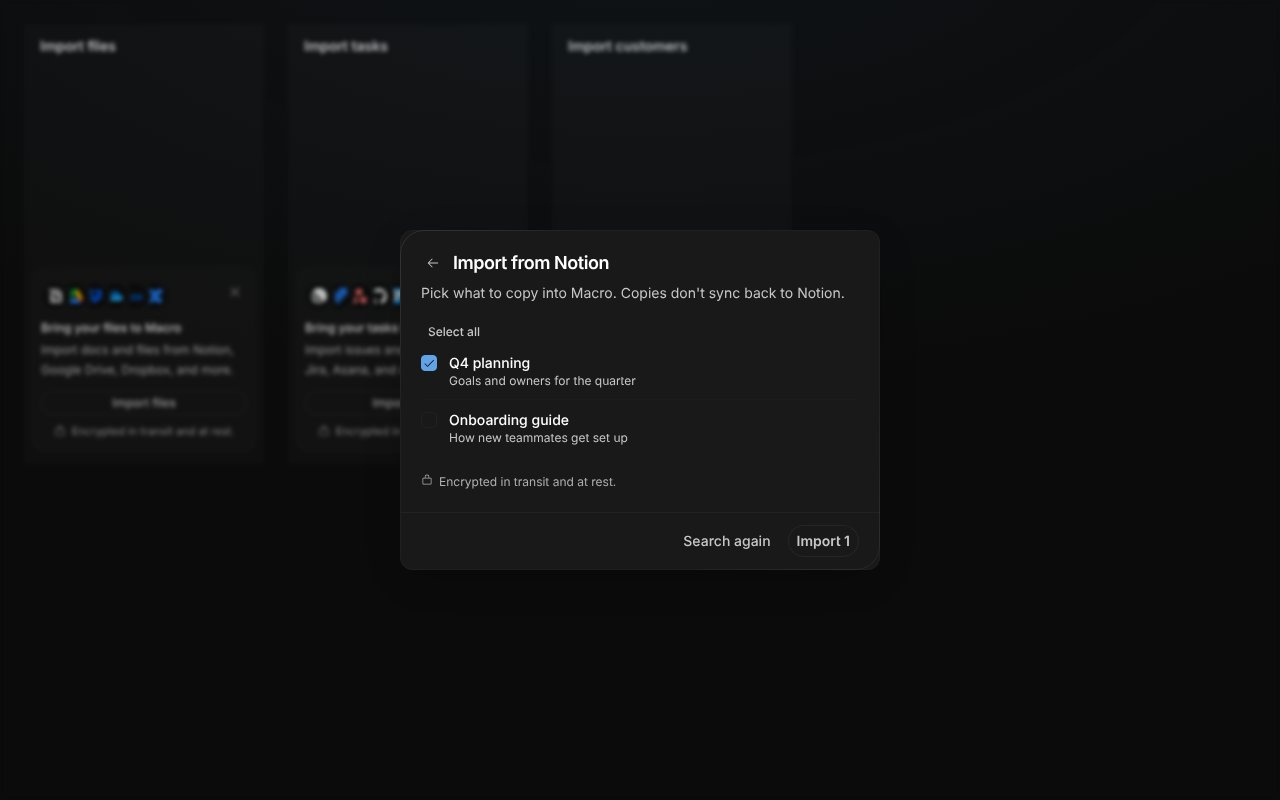
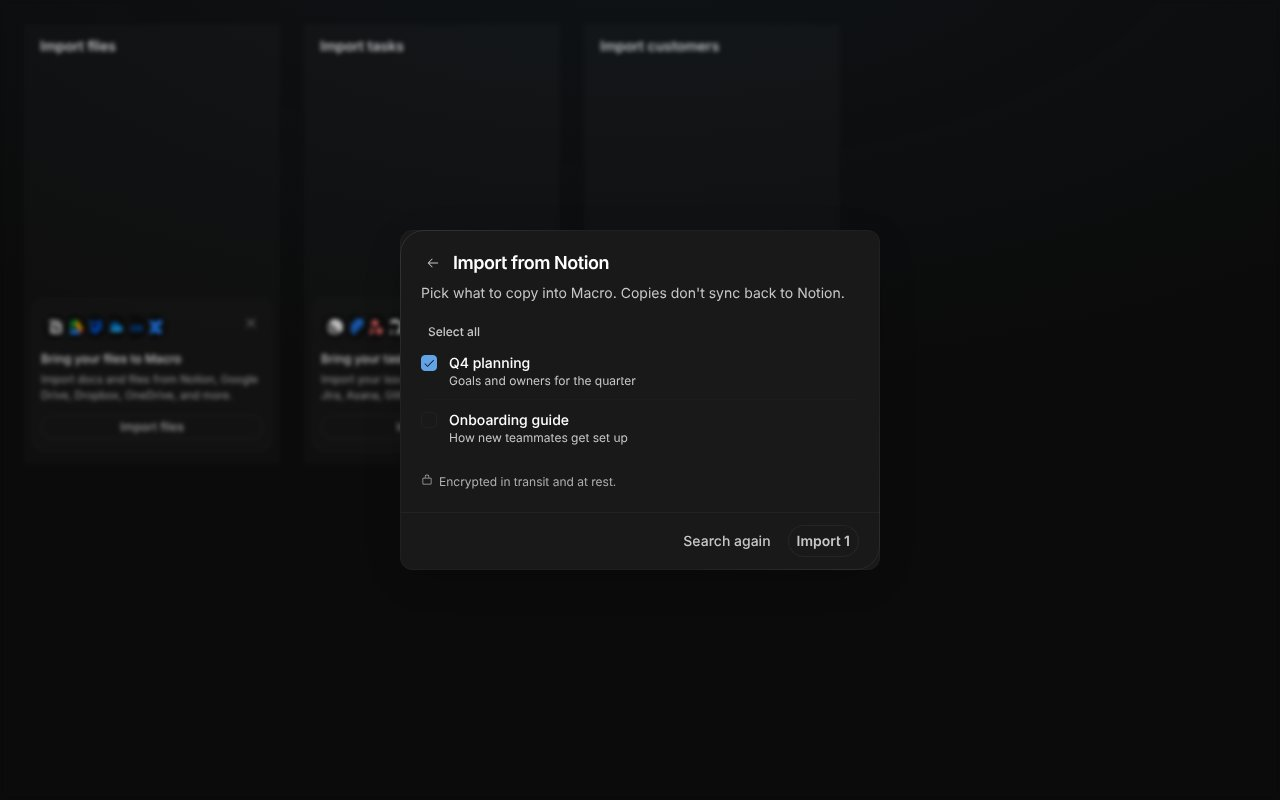
fix(import): drop card security note and tighten pitch copy
Smaller pitch text, with copy that fills one line and most of a second at the default sidebar width.

diff --git a/apps/web/src/features/connector-import/core/catalog.ts b/apps/web/src/features/connector-import/core/catalog.ts
@@ -22,12 +22,13 @@ import type {
 
 // Order is promotion order: the sidebar card shows these left to right and
 // its copy names the first few. Natively imported sources lead.
+// Each pitch fills one line and most of a second at the default sidebar width.
 export const IMPORT_CATEGORIES: Record<ImportCategory, ImportCategoryConfig> = {
   files: {
     category: 'files',
     headline: 'Bring your files to Macro',
     pitch:
-      'Import docs and files from Notion, Google Drive, Dropbox, and more.',
+      'Import docs and files from Notion, Google Drive, Dropbox, OneDrive, and more.',
     action: 'Import files',
     dialogDescription:
       'Connect an app, then pick what to bring into your Drive.',
@@ -76,7 +77,8 @@ export const IMPORT_CATEGORIES: Record<ImportCategory, ImportCategoryConfig> = {
   tasks: {
     category: 'tasks',
     headline: 'Bring your tasks to Macro',
-    pitch: 'Import issues and tasks from Linear, Jira, Asana, and more.',
+    pitch:
+      'Import your issues and tasks from Linear, Jira, Asana, GitHub, Trello, and more.',
     action: 'Import tasks',
     dialogDescription: 'Connect an app, then pick which tasks to bring over.',
     items: 'issues and tasks',
@@ -124,7 +126,8 @@ export const IMPORT_CATEGORIES: Record<ImportCategory, ImportCategoryConfig> = {
   crm: {
     category: 'crm',
     headline: 'Bring your customers to Macro',
-    pitch: 'Import companies and contacts from HubSpot, Salesforce, and more.',
+    pitch:
+      'Import your companies and contacts from HubSpot, Salesforce, Close, and more.',
     action: 'Import customers',
     dialogDescription:
       'Connect an app, then bring its companies and contacts into your CRM.',

diff --git a/apps/web/src/features/connector-import/components/import-promo-card.tsx b/apps/web/src/features/connector-import/components/import-promo-card.tsx
@@ -2,7 +2,6 @@ import XIcon from '@phosphor/x.svg';
 import { Button } from '@ui';
 import type { ImportCategoryConfig } from '../core/providers';
 import { ProviderStack } from './provider-stack';
-import { SecurityNote } from './security-note';
 
 /** The sidebar prompt to bring a category's data over from other apps. */
 export function ImportPromoCard(props: {
@@ -29,7 +28,7 @@ export function ImportPromoCard(props: {
       <h2 class="mt-2.5 text-xs font-medium text-ink">
         {props.config.headline}
       </h2>
-      <p class="mt-1 text-xs leading-relaxed text-ink-muted">
+      <p class="mt-1 text-[11px] leading-4 text-ink-muted" data-pitch="">
         {props.config.pitch}
       </p>
       <Button
@@ -40,7 +39,6 @@ export function ImportPromoCard(props: {
       >
         {props.config.action}
       </Button>
-      <SecurityNote class="mt-2 items-center justify-center text-[11px] leading-4 [&>svg]:mt-0" />
     </section>
   );
 }

diff --git a/apps/web/src/features/connector-import/browser-test/import.tsx b/apps/web/src/features/connector-import/browser-test/import.tsx
@@ -92,7 +92,7 @@ function Sidebar(props: { category: ImportCategory }) {
   const config = IMPORT_CATEGORIES[props.category];
   return (
     <aside
-      class="flex h-[440px] w-60 flex-col bg-panel px-2 py-3"
+      class="flex h-[440px] w-64 flex-col bg-panel px-2 py-3"
       aria-label={`${props.category} sidebar`}
     >
       <p class="px-2 text-sm font-semibold text-ink">{config.action}</p>

diff --git a/docs/AGENT_GUIDE/surfaces.md b/docs/AGENT_GUIDE/surfaces.md
@@ -2211,9 +2211,8 @@ afterwards in **Settings → Billing**, where Guest users can buy Premium or Max
 
 With `enable-connector-import` on (on in dev) and the Pipedream connector stack
 enabled, the Drive, Tasks, and Customers sidebars end with an import card:
-overlapping provider logos, a short pitch, **Import files**, **Import tasks**,
-or **Import customers**, and a small centered encryption note below the button.
-Customers shows it only to team members. **Dismiss import files** (or tasks, customers) hides that card
+overlapping provider logos, a two-line pitch, and **Import files**, **Import
+tasks**, or **Import customers**. Customers shows it only to team members. **Dismiss import files** (or tasks, customers) hides that card
 for the user in this browser; a server-confirmed native import also hides it.
 
 The button opens a dialog listing that category's apps (Files: Notion, Google
